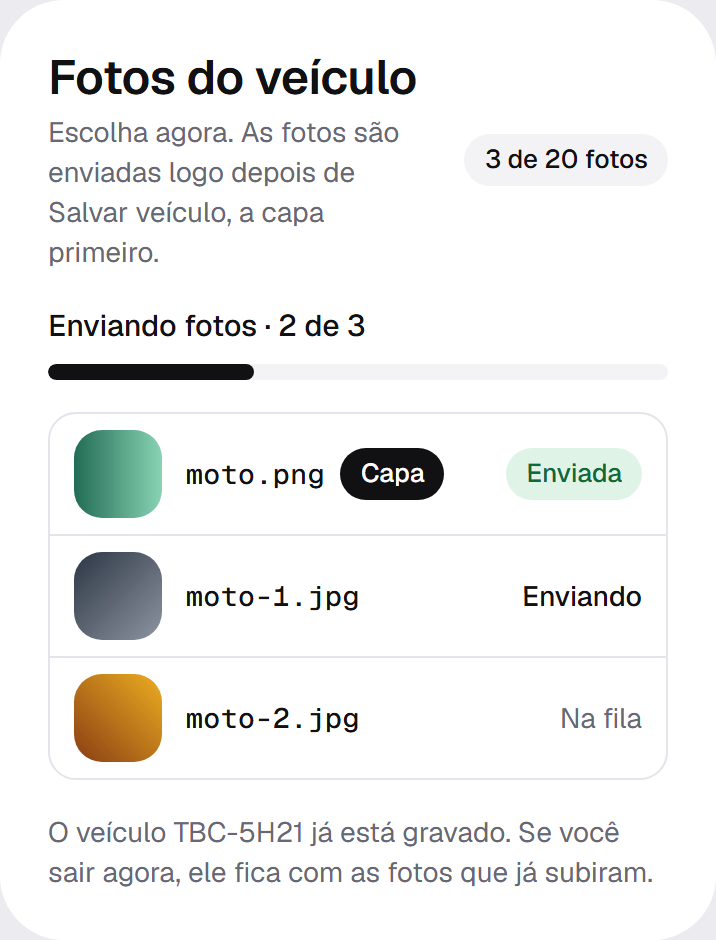
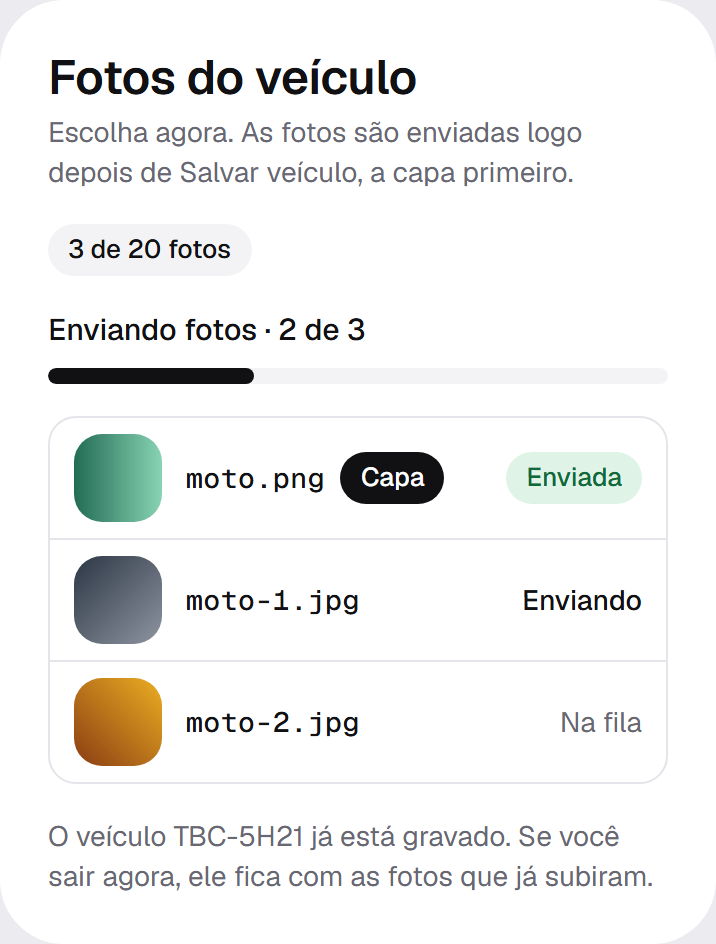
fix(veiculos): ajustes do design system no bloco de fotos; verbo na ZonaDeEnvio e cartão alinhado ao topo no celular [VEI-10] [T-437]

diff --git a/frontend/src/components/frota/PecasDaGaleria.tsx b/frontend/src/components/frota/PecasDaGaleria.tsx
@@ -10,7 +10,23 @@ import { Button, Icone, StatusBadge } from "@/design-system";
 export const FORMATOS_ACEITOS = "image/jpeg,image/png";
 
 /** Zona tracejada: clicar em "Selecionar fotos" ou soltar arquivos aqui. A validação é da API; esta peça só entrega os arquivos. */
-export function ZonaDeEnvio({ limite, ocupado = false, progresso, rotulo = "Selecionar fotos", aoEscolher }: { limite: number; ocupado?: boolean; progresso?: string | null; /** Texto do botão: o editar usa "Selecionar fotos"; o cadastro, "Escolher fotos". */ rotulo?: string; aoEscolher: (arquivos: File[]) => void }) {
+export function ZonaDeEnvio({
+  limite,
+  ocupado = false,
+  progresso,
+  rotulo = "Selecionar fotos",
+  verbo = "enviar",
+  aoEscolher,
+}: {
+  limite: number;
+  ocupado?: boolean;
+  progresso?: string | null;
+  /** Texto do botão: o editar usa "Selecionar fotos"; o cadastro, "Escolher fotos". */
+  rotulo?: string;
+  /** Verbo do título: o editar envia na hora ("enviar"); o cadastro só escolhe, e envia depois de salvar ("escolher", T-437). */
+  verbo?: "enviar" | "escolher";
+  aoEscolher: (arquivos: File[]) => void;
+}) {
   const escolher = useRef<HTMLInputElement>(null);
   const [sobre, setSobre] = useState(false);
   const soltar = (e: DragEvent<HTMLDivElement>) => {
@@ -31,7 +47,7 @@ export function ZonaDeEnvio({ limite, ocupado = false, progresso, rotulo = "Sele
       className={`flex flex-col items-center gap-2 rounded-lg border-2 border-dashed p-6 text-center ${sobre ? "border-solid bg-surface-sunken" : "border-line"}`}
     >
       <Icone de={Upload} className="size-6 text-ink-muted" />
-      <p className="m-0 text-body font-medium">Clique para enviar fotos ou arraste arquivos aqui</p>
+      <p className="m-0 text-body font-medium">Clique para {verbo} fotos ou arraste arquivos aqui</p>
       <Button variante="solido" compacto disabled={ocupado} onClick={() => escolher.current?.click()}>
         {ocupado ? "Enviando…" : rotulo}
       </Button>
@@ -64,7 +80,7 @@ export function ZonaDeEnvio({ limite, ocupado = false, progresso, rotulo = "Sele
  */
 export function CartaoDeFoto({ url, alt, posicao, capa, legenda, acoes }: { url: string | null; alt: string; posicao: number; capa: boolean; legenda: string; acoes?: ReactNode }) {
   return (
-    <li className="flex min-w-0 items-center gap-3 border-b border-line py-3 last:border-b-0 md:flex-col md:items-stretch md:border-b-0 md:py-0">
+    <li className="flex min-w-0 items-start gap-3 border-b border-line py-3 last:border-b-0 md:flex-col md:items-stretch md:border-b-0 md:py-0">
       <div className="relative size-[64px] shrink-0 overflow-hidden rounded-md bg-surface-sunken md:size-auto md:h-[140px] md:w-full">
         {url ? (
           // A URL é assinada e vale 15 minutos (AUD-05).

diff --git a/frontend/src/components/frota/FotosDoCadastro.tsx b/frontend/src/components/frota/FotosDoCadastro.tsx
@@ -117,17 +117,18 @@ export function andamentoDoEnvio(itens: ItemDoEnvio[]): string {
 }
 
 function CabecalhoDoBloco({ total, children }: { total: number; children: React.ReactNode }) {
+  const contador = (
+    <StatusBadge compacto tom={total >= LIMITE_NO_CADASTRO ? "alerta" : "neutro"}>
+      {total} de {LIMITE_NO_CADASTRO} fotos
+    </StatusBadge>
+  );
+  // Abaixo de 721 px o contador desce para baixo do título, e o subtítulo usa a largura toda.
   return (
-    <Panel
-      titulo="Fotos do veículo"
-      subtitulo="Escolha agora. As fotos são enviadas logo depois de Salvar veículo, a capa primeiro."
-      acao={
-        <StatusBadge compacto tom={total >= LIMITE_NO_CADASTRO ? "alerta" : "neutro"}>
-          {total} de {LIMITE_NO_CADASTRO} fotos
-        </StatusBadge>
-      }
-    >
-      <div className="flex flex-col gap-4">{children}</div>
+    <Panel titulo="Fotos do veículo" subtitulo="Escolha agora. As fotos são enviadas logo depois de Salvar veículo, a capa primeiro." acao={<span className="hidden md:inline-flex">{contador}</span>}>
+      <div className="flex flex-col gap-4">
+        <span className="md:hidden">{contador}</span>
+        {children}
+      </div>
     </Panel>
   );
 }
@@ -156,7 +157,7 @@ export function FotosEscolhidas({ fotos, capa, recusas, passouDoLimite, aoEscolh
       {cheia ? (
         <p className="m-0 rounded-lg border-2 border-dashed border-line p-4 text-center text-body font-medium text-ink-muted">Tire uma foto da lista para escolher outra</p>
       ) : (
-        <ZonaDeEnvio limite={LIMITE_NO_CADASTRO} rotulo="Escolher fotos" aoEscolher={aoEscolher} />
+        <ZonaDeEnvio limite={LIMITE_NO_CADASTRO} rotulo="Escolher fotos" verbo="escolher" aoEscolher={aoEscolher} />
       )}
       {passouDoLimite && (
         <p role="status" className="m-0 flex items-center gap-2 rounded-md bg-warning-soft p-3 text-body text-warning-ink">
@@ -166,7 +167,7 @@ export function FotosEscolhidas({ fotos, capa, recusas, passouDoLimite, aoEscolh
       )}
       <ListaDeRecusas recusas={recusas} aoDispensar={aoDispensarRecusas} />
       {fotos.length > 0 && (
-        <ul className="m-0 grid list-none grid-cols-1 gap-0 p-0 md:grid-cols-4 md:gap-3">
+        <ul className="m-0 grid list-none grid-cols-1 gap-0 p-0 md:grid-cols-[repeat(auto-fill,minmax(200px,1fr))] md:gap-3">
           {fotos.map((f, i) => (
             <CartaoDeFoto
               key={f.chave}

diff --git a/frontend/src/components/frota/FotosDoCadastro.test.tsx b/frontend/src/components/frota/FotosDoCadastro.test.tsx
@@ -23,6 +23,7 @@ import {
   type FotoEscolhida,
   type ItemDoEnvio,
 } from "./FotosDoCadastro";
+import { CartaoDeFoto, ZonaDeEnvio } from "./PecasDaGaleria";
 
 const sessao = vi.hoisted(() => ({ eu: null as unknown }));
 vi.mock("next/navigation", () => ({ useRouter: () => ({ push: () => {}, replace: () => {} }), usePathname: () => "/veiculos/novo", useSearchParams: () => new URLSearchParams() }));
@@ -66,7 +67,23 @@ describe("antes de salvar (escolha)", () => {
   it("test_vei_10_cadastro_botao_escolher_fotos: o cadastro diz Escolher fotos, como a referência, e não Selecionar fotos", () => {
     const t = texto(html(<FotosEscolhidas fotos={[]} capa={null} recusas={[]} passouDoLimite={false} aoEscolher={() => {}} aoTirar={() => {}} aoUsarComoCapa={() => {}} aoDispensarRecusas={() => {}} />));
     expect(t).toContain("|Escolher fotos|");
+    expect(t).toContain("Clique para escolher fotos ou arraste arquivos aqui");
     expect(t).not.toContain("Selecionar fotos");
+    expect(t).not.toContain("Clique para enviar fotos");
+  });
+
+  it("test_vei_10_zona_de_envio_verbo: sem verbo, o editar segue com enviar e Selecionar fotos", () => {
+    const t = texto(html(<ZonaDeEnvio limite={20} aoEscolher={() => {}} />));
+    expect(t).toContain("Clique para enviar fotos ou arraste arquivos aqui");
+    expect(t).toContain("|Selecionar fotos|");
+  });
+
+  it("test_vei_10_cartao_de_foto_alinhado_ao_topo_no_celular: abaixo de md a miniatura alinha ao topo; no desktop o cartão estica", () => {
+    const h = html(<ul><CartaoDeFoto url={null} alt="Foto 1 de 1" posicao={1} capa legenda="moto-1.jpg · 2 KB" /></ul>);
+    const li = /<li class="([^"]+)"/.exec(h)?.[1] ?? "";
+    expect(li.split(" ")).toContain("items-start");
+    expect(li.split(" ")).not.toContain("items-center");
+    expect(li.split(" ")).toContain("md:items-stretch");
   });
 
   it("test_vei_10_cadastro_tirar_e_escolher_a_capa (CA-437-02): tira moto-2.jpg, marca moto.png, e moto.png sobe primeiro", () => {
